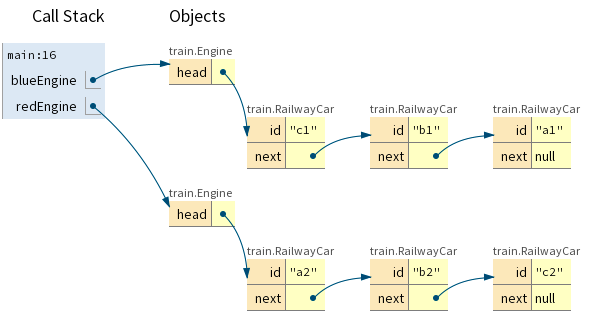
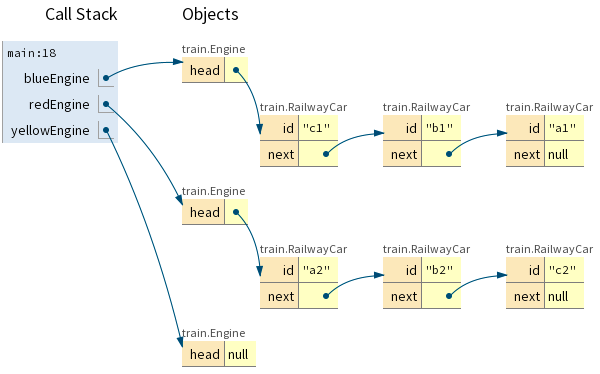
update lesson

Changed region(s): [[0.0, 0.0, 1.0, 0.9938], [0.275, 0.0, 0.3973, 0.0932]]

diff --git a/README.md b/README.md
@@ -10,11 +10,14 @@ Linda Seiter
 
 ---
 
-## Why do students struggle with linked lists?
+## Why are linked lists so challenging to learn?
 
 - Composition (LinkedList + Node) **and** Self-Referential (Node)
-- Object traversal, null reference, reference reassignment, circular reference
+- Object traversal, null reference, circular reference
+- Reference reassignment
 - Abstract software object, not a "real world" object
+
+_Have students had sufficient practice with these concepts?_
 
 ---
 
@@ -56,8 +59,96 @@ Object Traversal, Reference Reassignment (code/debug activities):
 
 ---
 
-## Real World Composition + Self-Referential Warmup Lesson
+## Real World Composition + Self-Referential Warmup
 
-Train: 1 engine pulling N railway cars
+Train engine pulling railway cars
 
-## ![](img/train1.png)
+```java
+public class RailwayCar {
+    private String id;
+    private RailwayCar next;
+
+    ...
+}
+
+public class Engine {
+
+    private RailwayCar head;
+
+    public void addToFront(RailwayCar car) {
+        ...
+    }
+
+    public void addToEnd(RailwayCar car) {
+        ...
+    }
+
+    public void detach(String id) {
+        ...
+    }
+}
+```
+
+## ![bg right 95%](img/train1.png)
+
+---
+
+## Debugging to help students understand object references
+
+- Visual debugger
+
+- Builtin IDE debugger
+
+---
+
+## Linked List Warmup Assessment
+
+- Worksheet: Object state <-> Code
+- Coding Task: Update RailwayCar to store passenger class. Update Engine
+  addTo..() methods to maintain class order:1st class cars, 2nd class cars, etc.
+- Coding Task: Add a splice method that takes 2 car ids and removes that section
+  of the train
+- Coding Task: Update RailwayCar with field for weight. Update the Engine class
+  with a field for maximum weight it can pull. Update Engine methods to prevent
+  too heavy a load.
+
+---
+
+## Teaching Linked Lists
+
+I've used Zybooks for some of my intro programming courses.
+
+- Participation Activities (formative throughout lesson)
+- Challenge Activities (summative per lesson)
+
+![bg right 90%](img/zybooks1.png)
+
+---
+
+## How I would tweak the lessons:
+
+- **Non-Generics Singly Linked List (int or String)**
+- Generics SLL
+- Circular SLL
+- **Circular SLL without explicit size field**
+- **DLL without sentinels**
+- DLL with sentinels
+- Cloning linked lists, shallow vs deep copying
+
+---
+
+## Assignment with 4-5 tasks
+
+Some possibilities:
+
+- Find the middle node of DLL
+- Merge two linked lists
+- Swap two nodes x and y (and not just their contents) in SLL given their
+  references. Repeat for a DLL. Analyze the efficiency of each. Which algorithm
+  takes more time?
+- Given a circularly linked list containing an even number of nodes, implement a
+  method two split into two circularly linked lists of half the size.
+- Implement the DLL with a single sentinel that guards both ends.
+- Implement a circular version of a doubly linked list, without any sentinels,
+  that supports all the public behaviors of the original as well as two new
+  update methods, rotate() and rotateBackward().
